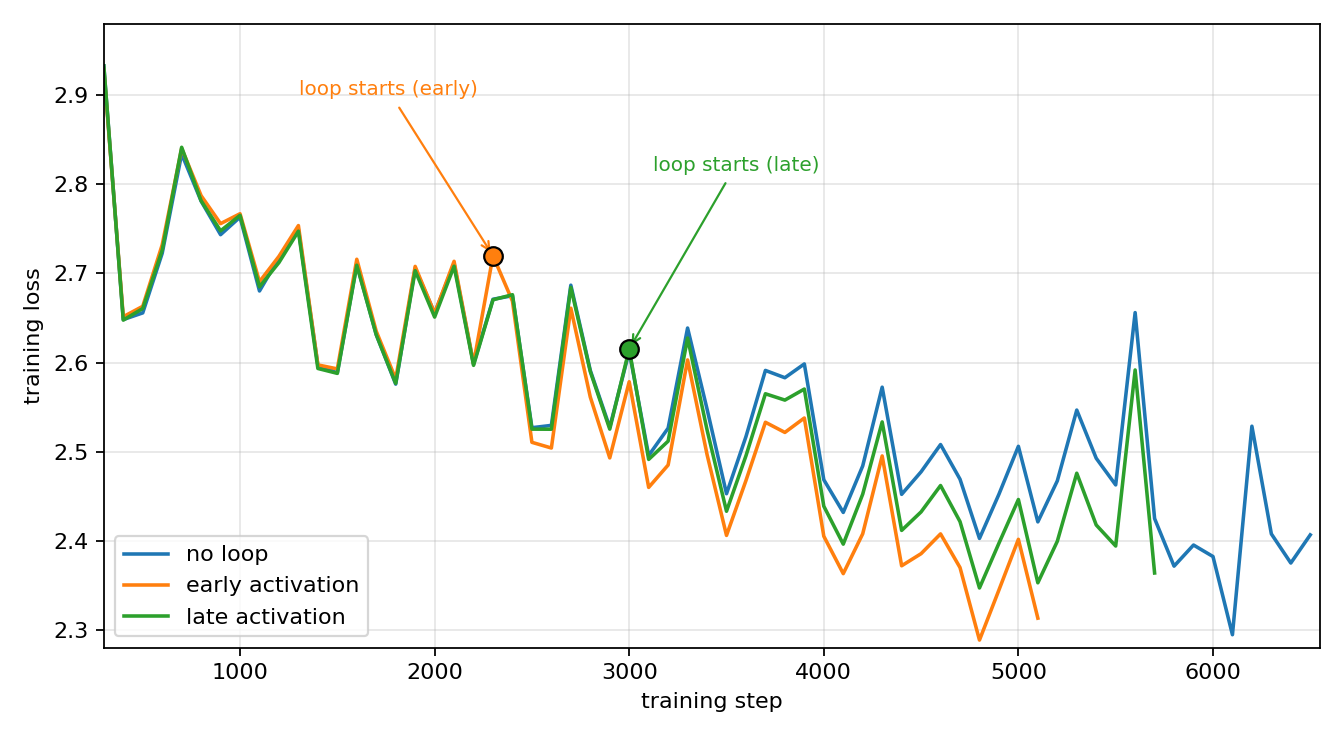
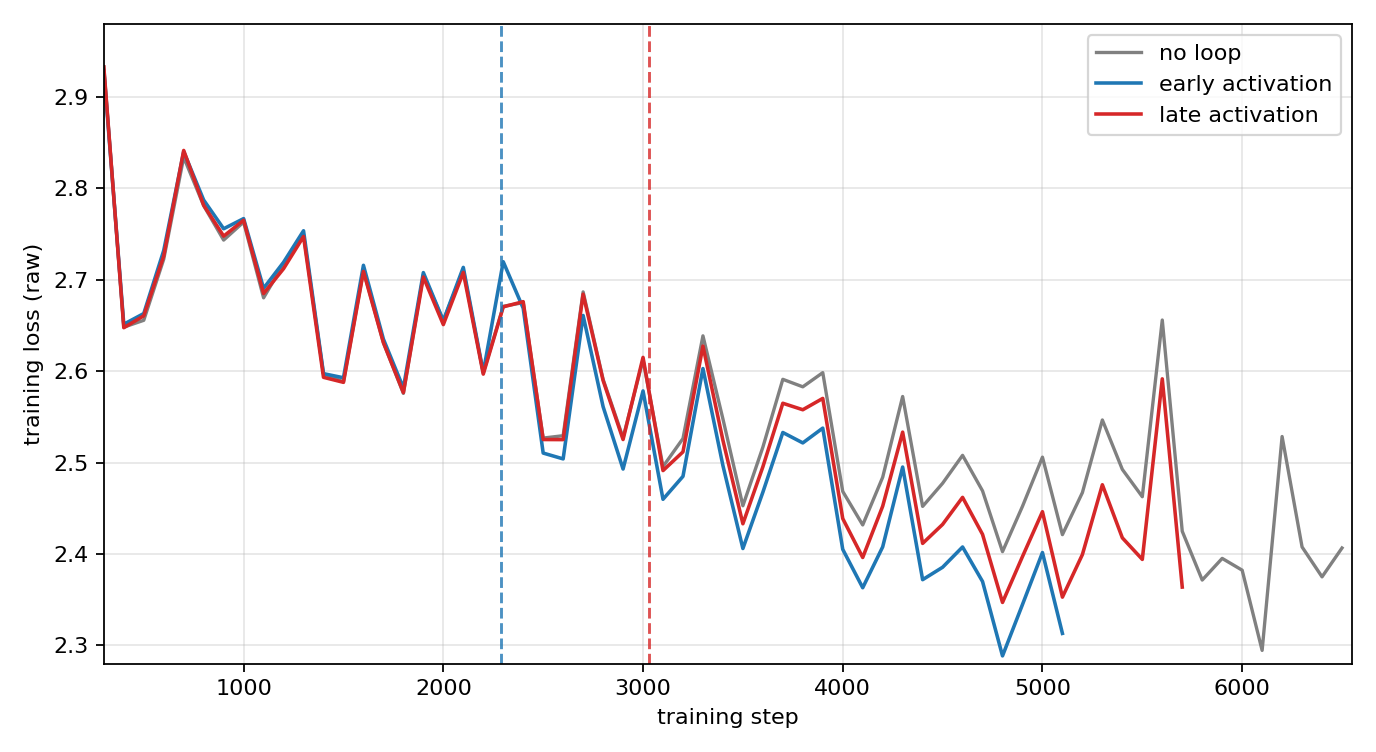
Enlarge post figures, rename /blog to /posts, normalize tags
- Post-page figures now fill the content column; blog-listing thumbnails
  match the homepage card (col-sm-4, img-fluid)
- Rename blog URLs /blog/* to /posts/* (index, posts, year/tag/category
  archives) with jekyll-redirect-from so existing /blog/ links still resolve
- Surface three top-level tags (mathematics, physics, machine-learning) on
  the listing page and tag posts accordingly
- Normalize all tags to lowercase-hyphen slug form, eliminating tag-page
  slug collisions from inconsistent multi-word/cased tags

diff --git a/_posts/2026-06-20-grpo-sft-teaching-reasoning-through-arithmetic.md b/_posts/2026-06-20-grpo-sft-teaching-reasoning-through-arithmetic.md
@@ -1,9 +1,11 @@
 ---
+redirect_from:
+  - /blog/2026/grpo-sft-teaching-reasoning-through-arithmetic/
 layout: post
 title: GRPO, SFT, and teaching reasoning through arithmetic
 date: 2026-06-20
 description: What GRPO and SFT can and cannot teach a 3B model about arithmetic reasoning, measured on the Countdown task.
-tags: reinforcement-learning, reasoning, GRPO, SFT
+tags: machine-learning, reinforcement-learning, reasoning, grpo, sft
 categories: machine-learning
 thumbnail: assets/img/grpo/grpo_dynamics.png
 toc:
@@ -238,6 +240,25 @@ tries, whereas GRPO-alone produces four to eight.
 
 Multiplication dies for the same reason it never appeared under GRPO-alone. SFT's
 multiplication was mostly wrong arithmetic (the worked steps read fine but compute the wrong product), so it fails the verifier, and GRPO prunes whatever fails.
+
+
+## Scaling up with slime
+
+Every result here came from a deliberately small setup: one H100, four rollouts per
+problem, a 1024-token budget, 300 iterations. That ceiling matters for the failure we kept
+hitting. GRPO can only reinforce a correct multiplication if at least one rollout in a group
+produces one, and with four samples on a problem the base solves roughly 1% of the time, the
+whole group comes back uniformly wrong and contributes no gradient.
+
+The next step is to lift that ceiling rather than change the algorithm, and for that we plan
+to move the RL loop onto [slime](https://github.com/THUDM/slime), Zhipu's open-source
+post-training framework for RL scaling. slime pairs Megatron-LM for training with SGLang for
+rollout generation, with asynchronous weight synchronization between them; it is the same
+stack Zhipu uses to post-train the GLM series. Concretely it buys us three things this study
+lacked: many more rollouts per problem (more chances for a rare correct multiply to land and
+survive the verifier), longer reasoning budgets, and a clean path to larger base models. Each
+of those targets the exact mechanism behind the zero-multiplication collapse, so it is the
+natural place to test whether the gap is fundamental or just starved for samples.
 
 
 ## Lessons

diff --git a/_pages/blog.md b/_pages/blog.md
@@ -1,6 +1,8 @@
 ---
 layout: default
-permalink: /blog/
+permalink: /posts/
+redirect_from:
+  - /blog/
 title: posts
 nav: true
 nav_order: 1
@@ -35,7 +37,7 @@ pagination:
     <ul class="p-0 m-0">
       {% for tag in site.display_tags %}
         <li>
-          <i class="fa-solid fa-hashtag fa-sm"></i> <a href="{{ tag | slugify | prepend: '/blog/tag/' | relative_url }}">{{ tag }}</a>
+          <i class="fa-solid fa-hashtag fa-sm"></i> <a href="{{ tag | slugify | prepend: '/posts/tag/' | relative_url }}">{{ tag }}</a>
         </li>
         {% unless forloop.last %}
           <p>&bull;</p>
@@ -46,7 +48,7 @@ pagination:
       {% endif %}
       {% for category in site.display_categories %}
         <li>
-          <i class="fa-solid fa-tag fa-sm"></i> <a href="{{ category | slugify | prepend: '/blog/category/' | relative_url }}">{{ category }}</a>
+          <i class="fa-solid fa-tag fa-sm"></i> <a href="{{ category | slugify | prepend: '/posts/category/' | relative_url }}">{{ category }}</a>
         </li>
         {% unless forloop.last %}
           <p>&bull;</p>
@@ -85,7 +87,7 @@ pagination:
 
                     <p class="post-meta">
                       {{ read_time }} min read &nbsp; &middot; &nbsp;
-                      <a href="{{ year | prepend: '/blog/' | prepend: site.baseurl}}">
+                      <a href="{{ year | prepend: '/posts/' | prepend: site.baseurl}}">
                         <i class="fa-solid fa-calendar fa-sm"></i> {{ year }} </a>
                     </p>
                   </div>
@@ -125,10 +127,10 @@ pagination:
 {% if post.thumbnail %}
 
 <div class="row align-items-center">
-  <div class="col-sm-3">
-    <a href="{{ post.url | relative_url }}"><img class="card-img" src="{{post.thumbnail | relative_url}}" style="object-fit: cover; height: 90%" alt="image"></a>
+  <div class="col-sm-4 mb-2 mb-sm-0">
+    <a href="{{ post.url | relative_url }}"><img class="img-fluid rounded z-depth-1" src="{{post.thumbnail | relative_url}}" alt="image"></a>
   </div>
-          <div class="col-sm-9">
+          <div class="col-sm-8">
 {% endif %}
         <h3>
         {% if post.redirect == blank %}
@@ -151,13 +153,13 @@ pagination:
         {% endif %}
       </p>
       <p class="post-tags">
-        <a href="{{ year | prepend: '/blog/' | prepend: site.baseurl}}">
+        <a href="{{ year | prepend: '/posts/' | prepend: site.baseurl}}">
           <i class="fa-solid fa-calendar fa-sm"></i> {{ year }} </a>
 
           {% if tags != "" %}
           &nbsp; &middot; &nbsp;
             {% for tag in post.tags %}
-            <a href="{{ tag | slugify | prepend: '/blog/tag/' | prepend: site.baseurl}}">
+            <a href="{{ tag | slugify | prepend: '/posts/tag/' | prepend: site.baseurl}}">
               <i class="fa-solid fa-hashtag fa-sm"></i> {{ tag }}</a>
               {% unless forloop.last %}
                 &nbsp;
@@ -168,7 +170,7 @@ pagination:
           {% if categories != "" %}
           &nbsp; &middot; &nbsp;
             {% for category in post.categories %}
-            <a href="{{ category | slugify | prepend: '/blog/category/' | prepend: site.baseurl}}">
+            <a href="{{ category | slugify | prepend: '/posts/category/' | prepend: site.baseurl}}">
               <i class="fa-solid fa-tag fa-sm"></i> {{ category }}</a>
               {% unless forloop.last %}
                 &nbsp;

diff --git a/_pages/about.md b/_pages/about.md
@@ -52,23 +52,23 @@ An agent-assisted LLM training pipeline (frozen specs, autonomous GPU runs, post
 
 <div class="row align-items-center" style="margin-bottom: 1.2rem;">
   <div class="col-sm-4 mb-2 mb-sm-0">
-    <a href="/blog/2026/grpo-sft-teaching-reasoning-through-arithmetic/"><img src="/assets/img/grpo/grpo_dynamics.png" class="img-fluid rounded z-depth-1" alt="GRPO training dynamics: accuracy up, response length down then up"></a>
+    <a href="/posts/2026/grpo-sft-teaching-reasoning-through-arithmetic/"><img src="/assets/img/grpo/grpo_dynamics.png" class="img-fluid rounded z-depth-1" alt="GRPO training dynamics: accuracy up, response length down then up"></a>
   </div>
   <div class="col-sm-8">
     <strong>LLM Post-Training with GRPO and SFT</strong> &nbsp; <em>(Reinforcement Learning)</em><br>
     Trained and evaluated Qwen2.5-3B on Countdown with GRPO/RLVR and SFT. GRPO raised add/subtract coverage from 54% to 94% (pass@10), with reasoning length tracing a three-phase arc as responses became coherent: rambling at 580 characters, down to a terse 172, then settling at 287. SFT was then used to enhance multiplication, and an SFT-then-GRPO pipeline raised add/subtract pass@1 to 71% (more confident single-shot, though lower at pass@k). Multiplication set to 0%.<br>
-    [<a href="/blog/2026/grpo-sft-teaching-reasoning-through-arithmetic/">writeup</a>] [<a href="https://huggingface.co/leon2k2k2k/qwen2.5-3b-countdown-grpo">models</a>] [<a href="https://huggingface.co/datasets/leon2k2k2k/countdown-mult-sft">data</a>]
+    [<a href="/posts/2026/grpo-sft-teaching-reasoning-through-arithmetic/">writeup</a>] [<a href="https://huggingface.co/leon2k2k2k/qwen2.5-3b-countdown-grpo">models</a>] [<a href="https://huggingface.co/datasets/leon2k2k2k/countdown-mult-sft">data</a>]
   </div>
 </div>
 
 <div class="row align-items-center" style="margin-bottom: 1.2rem;">
   <div class="col-sm-4 mb-2 mb-sm-0">
-    <a href="/blog/2026/improving-one-small-model-depth-recurrence/"><img src="/assets/img/paramgolf/alpha_trajectory.png" class="img-fluid rounded z-depth-1" alt="Mixing coefficients converging from different initializations"></a>
+    <a href="/posts/2026/improving-one-small-model-depth-recurrence/"><img src="/assets/img/paramgolf/alpha_trajectory.png" class="img-fluid rounded z-depth-1" alt="Mixing coefficients converging from different initializations"></a>
   </div>
   <div class="col-sm-8">
     <strong>Parameter Golf: Depth-Recurrence in Small-Model Pretraining</strong> &nbsp; <em>(pretraining)</em><br>
     Starting from a strong depth-recurrent small-model pretraining recipe, we learned the per-pass mixing coefficients in its loop band, found they converge to the same values regardless of initialization, and froze them as constants, <strong>improving validation BPB from 1.06549 to 1.06421, a roughly 3-sigma gain across 3 seeds</strong>, at zero size cost. We also audited a validation-data leak across the leaderboard and analyzed a sub-1.0-BPB scoring exploit. This was part of OpenAI's Parameter Golf, a six-week competition to build the best language model under a 16 MB, 10-minute budget; we wrote up the competition itself separately.<br>
-    [<a href="/blog/2026/improving-one-small-model-depth-recurrence/">writeup</a>] [<a href="/blog/2026/parameter-golf-six-weeks-to-build-the-best-llm/">competition writeup</a>] [<a href="https://github.com/openai/parameter-golf/pull/1779">PR #1779</a>]
+    [<a href="/posts/2026/improving-one-small-model-depth-recurrence/">writeup</a>] [<a href="/posts/2026/parameter-golf-six-weeks-to-build-the-best-llm/">competition writeup</a>] [<a href="https://github.com/openai/parameter-golf/pull/1779">PR #1779</a>]
   </div>
 </div>
 

diff --git a/_posts/2024-07-14-vector-valued-Eisenstein-series-I.md b/_posts/2024-07-14-vector-valued-Eisenstein-series-I.md
@@ -1,9 +1,11 @@
 ---
+redirect_from:
+  - /blog/2024/vector-valued-Eisenstein-series-I/
 layout: post
 title: Various Eisenstein series
 date: 2024-07-13
 description: Eisenstein series I
-tags: mathematics, modular forms
+tags: mathematics, modular-forms
 categories:
 ---
 For the first series of post I want to talk about real-analytic Eisenstein series and their vector-valued generalization. The motivation is to understand the ensemble average/3D quantum gravity aspects of [this paper](https://arxiv.org/abs/2311.00699), which has been on my bucket list for while now.

diff --git a/_posts/2024-08-05-diff-coho-I.md b/_posts/2024-08-05-diff-coho-I.md
@@ -1,9 +1,11 @@
 ---
+redirect_from:
+  - /blog/2024/diff-coho-I/
 layout: post
 title: Being confused about differential cohomology I
 date: 2024-08-05
 description: Ordinary differential cohomology
-tags: mathematics, mathematical-physics
+tags: mathematics, physics, mathematical-physics
 categories:
 ---
 

diff --git a/_posts/2024-08-07-diff-coho-II.md b/_posts/2024-08-07-diff-coho-II.md
@@ -1,9 +1,11 @@
 ---
+redirect_from:
+  - /blog/2024/diff-coho-II/
 layout: post
 title: Being confused about differential cohomology II 
 date: 2024-08-07
 description: From recollement on differential cohomology to differential Hexagons
-tags: mathematics, mathematical-physics
+tags: mathematics, physics, mathematical-physics
 categories:
 ---
 

diff --git a/_posts/2024-08-08-diff-coho-III.md b/_posts/2024-08-08-diff-coho-III.md
@@ -1,9 +1,11 @@
 ---
+redirect_from:
+  - /blog/2024/diff-coho-III/
 layout: post
 title: Being confused about differential cohomology III 
 date: 2024-08-07
 description: Building differential cohomology
-tags: mathematics, mathematical-physics
+tags: mathematics, physics, mathematical-physics
 categories:
 ---
 

diff --git a/_posts/2024-08-19-Eisensterin.md b/_posts/2024-08-19-Eisensterin.md
@@ -1,9 +1,11 @@
 ---
+redirect_from:
+  - /blog/2024/Eisensterin/
 layout: post
 title: Pseudo-Eisenstein series, functional equations, and poles
 date: 2024-08-19
 description: Eisenstein series II
-tags: mathematics, modular forms
+tags: mathematics, modular-forms
 categories:
 ---
 In this note we are going to review how Eisenstein series (the weight $$0$$ trivial MTCs ones) naturally comes from the study of scalar piece of modular functions. Using this, we are going to establish basic facts about the Eisenstein series, functional equations, harmonic decompositions, and pole structures.

diff --git a/_posts/2024-08-20-scalar-bootstrap.md b/_posts/2024-08-20-scalar-bootstrap.md
@@ -1,9 +1,11 @@
 ---
+redirect_from:
+  - /blog/2024/scalar-bootstrap/
 layout: post
 title: Harmonic analysis of Narain partition function
 date: 2024-08-20
 description: Harmonic analysis of 2D CFTs
-tags: mathematics, modular forms, mathematical physics, 2D CFTs
+tags: mathematics, physics, modular-forms, mathematical-physics, 2d-cfts
 categories:
 ---
 In this post we visit this two papers: [Harmonic analysis of 2d CFT partition functions](https://arxiv.org/pdf/2107.10744) and [Scalar modular boostrap and zeros of the Riemann zeta function](https://arxiv.org/pdf/2208.02259). There is a whole wealth of literature on this subject, mostly in the view of quantum gravity and ensemble averaging. We will get to discuss some of this today, from a more mathematical perspective. I am not sure how much physics we will get to.

diff --git a/_posts/2024-08-21-Ztau-pole-structure.md b/_posts/2024-08-21-Ztau-pole-structure.md
@@ -1,9 +1,11 @@
 ---
+redirect_from:
+  - /blog/2024/Ztau-pole-structure/
 layout: post
 title: Pole structure of harmonic decomposition of Narain scalar primary
 date: 2024-08-21
 description: Harmonic analysis of 2D CFTs I
-tags: mathematics, modular forms, mathematical physics, 2D CFTs
+tags: mathematics, physics, modular-forms, mathematical-physics, 2d-cfts
 categories:
 ---
 <span style="color:red">I might be misssing a factor of $$2$$ for the energy $$\Delta$$!!</span>

diff --git a/_posts/2024-09-05-stats.md b/_posts/2024-09-05-stats.md
@@ -1,9 +1,11 @@
 ---
+redirect_from:
+  - /blog/2024/stats/
 layout: post
 title: Basic stats
 date: 2024-09-05
 description: 
-tags: Statistics, Probability
+tags: mathematics, statistics, probability
 categories:
 ---
 

diff --git a/_posts/2024-12-02-gauge-theroy-RG.md b/_posts/2024-12-02-gauge-theroy-RG.md
@@ -1,9 +1,11 @@
 ---
+redirect_from:
+  - /blog/2024/gauge-theroy-RG/
 layout: post
 title: RG flow of 4D gauge theory
 date: 2024-12-02
 description: 
-tags: High energy physics, gauge theroy
+tags: physics, high-energy-physics, gauge-theroy
 categories:
 ---
 Four dimension gauge theories are some of the most subtle parts of high energy physics. One of the things that I have been wanting to throughly understand is the famous one loop determinant calculation of the beta function for 4D gauge theory: